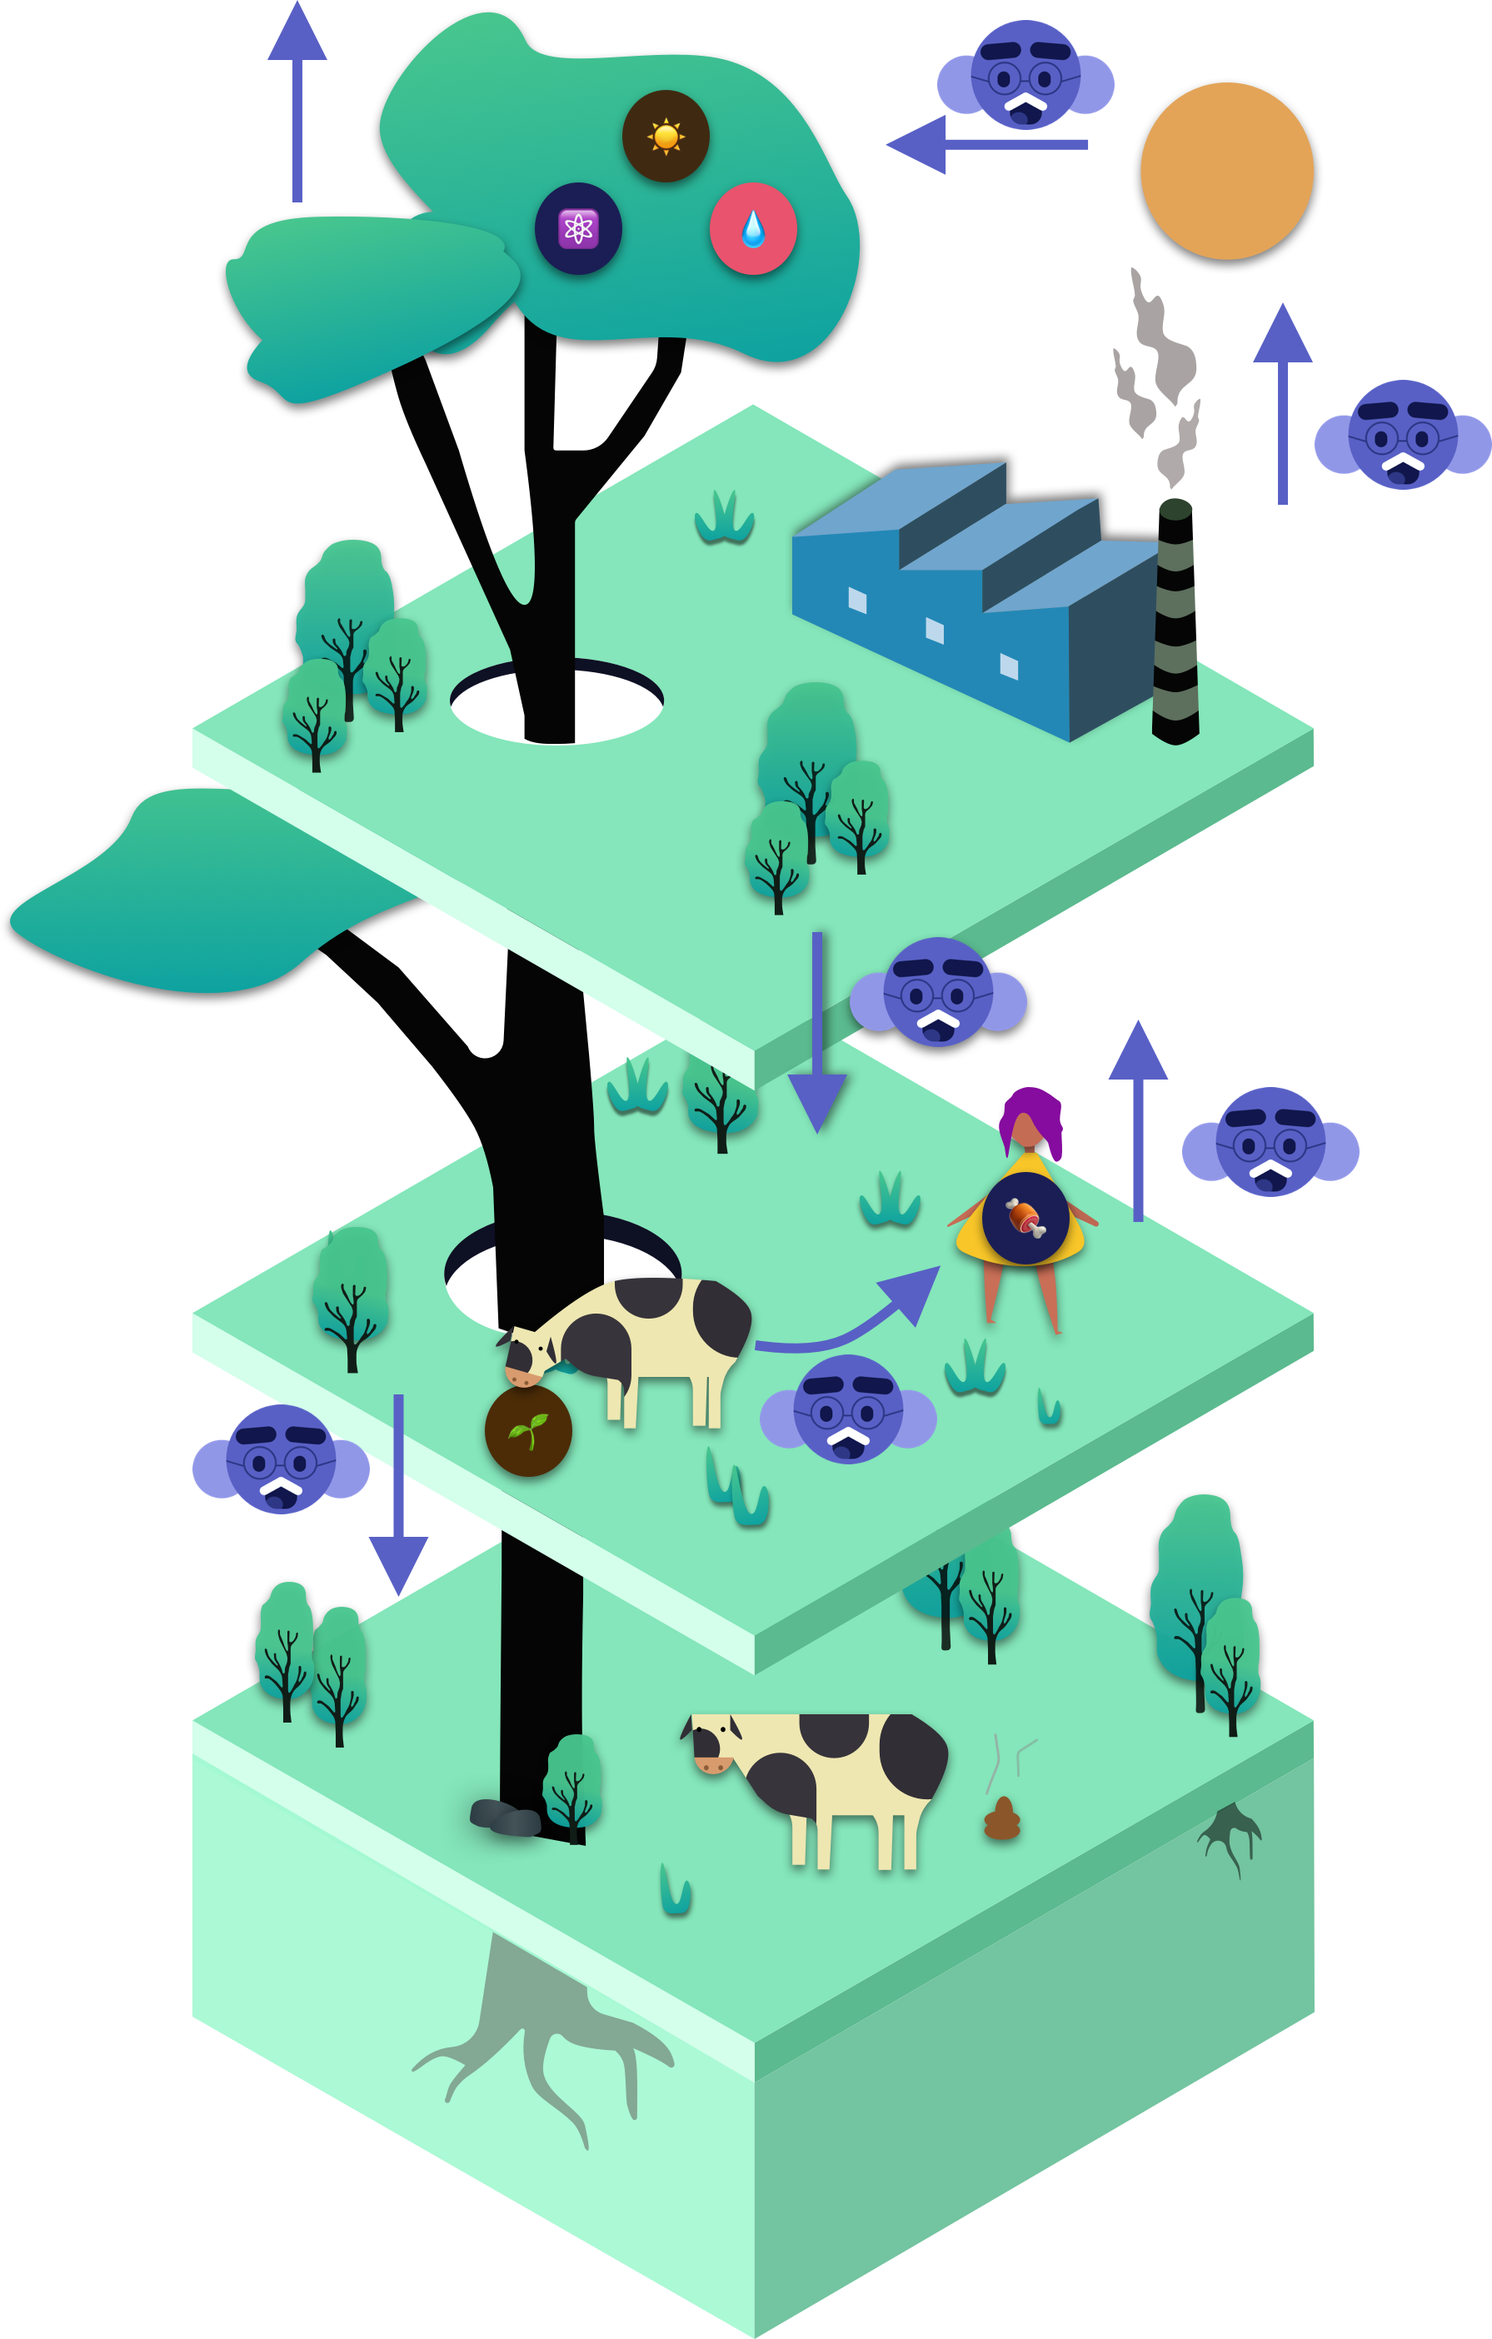
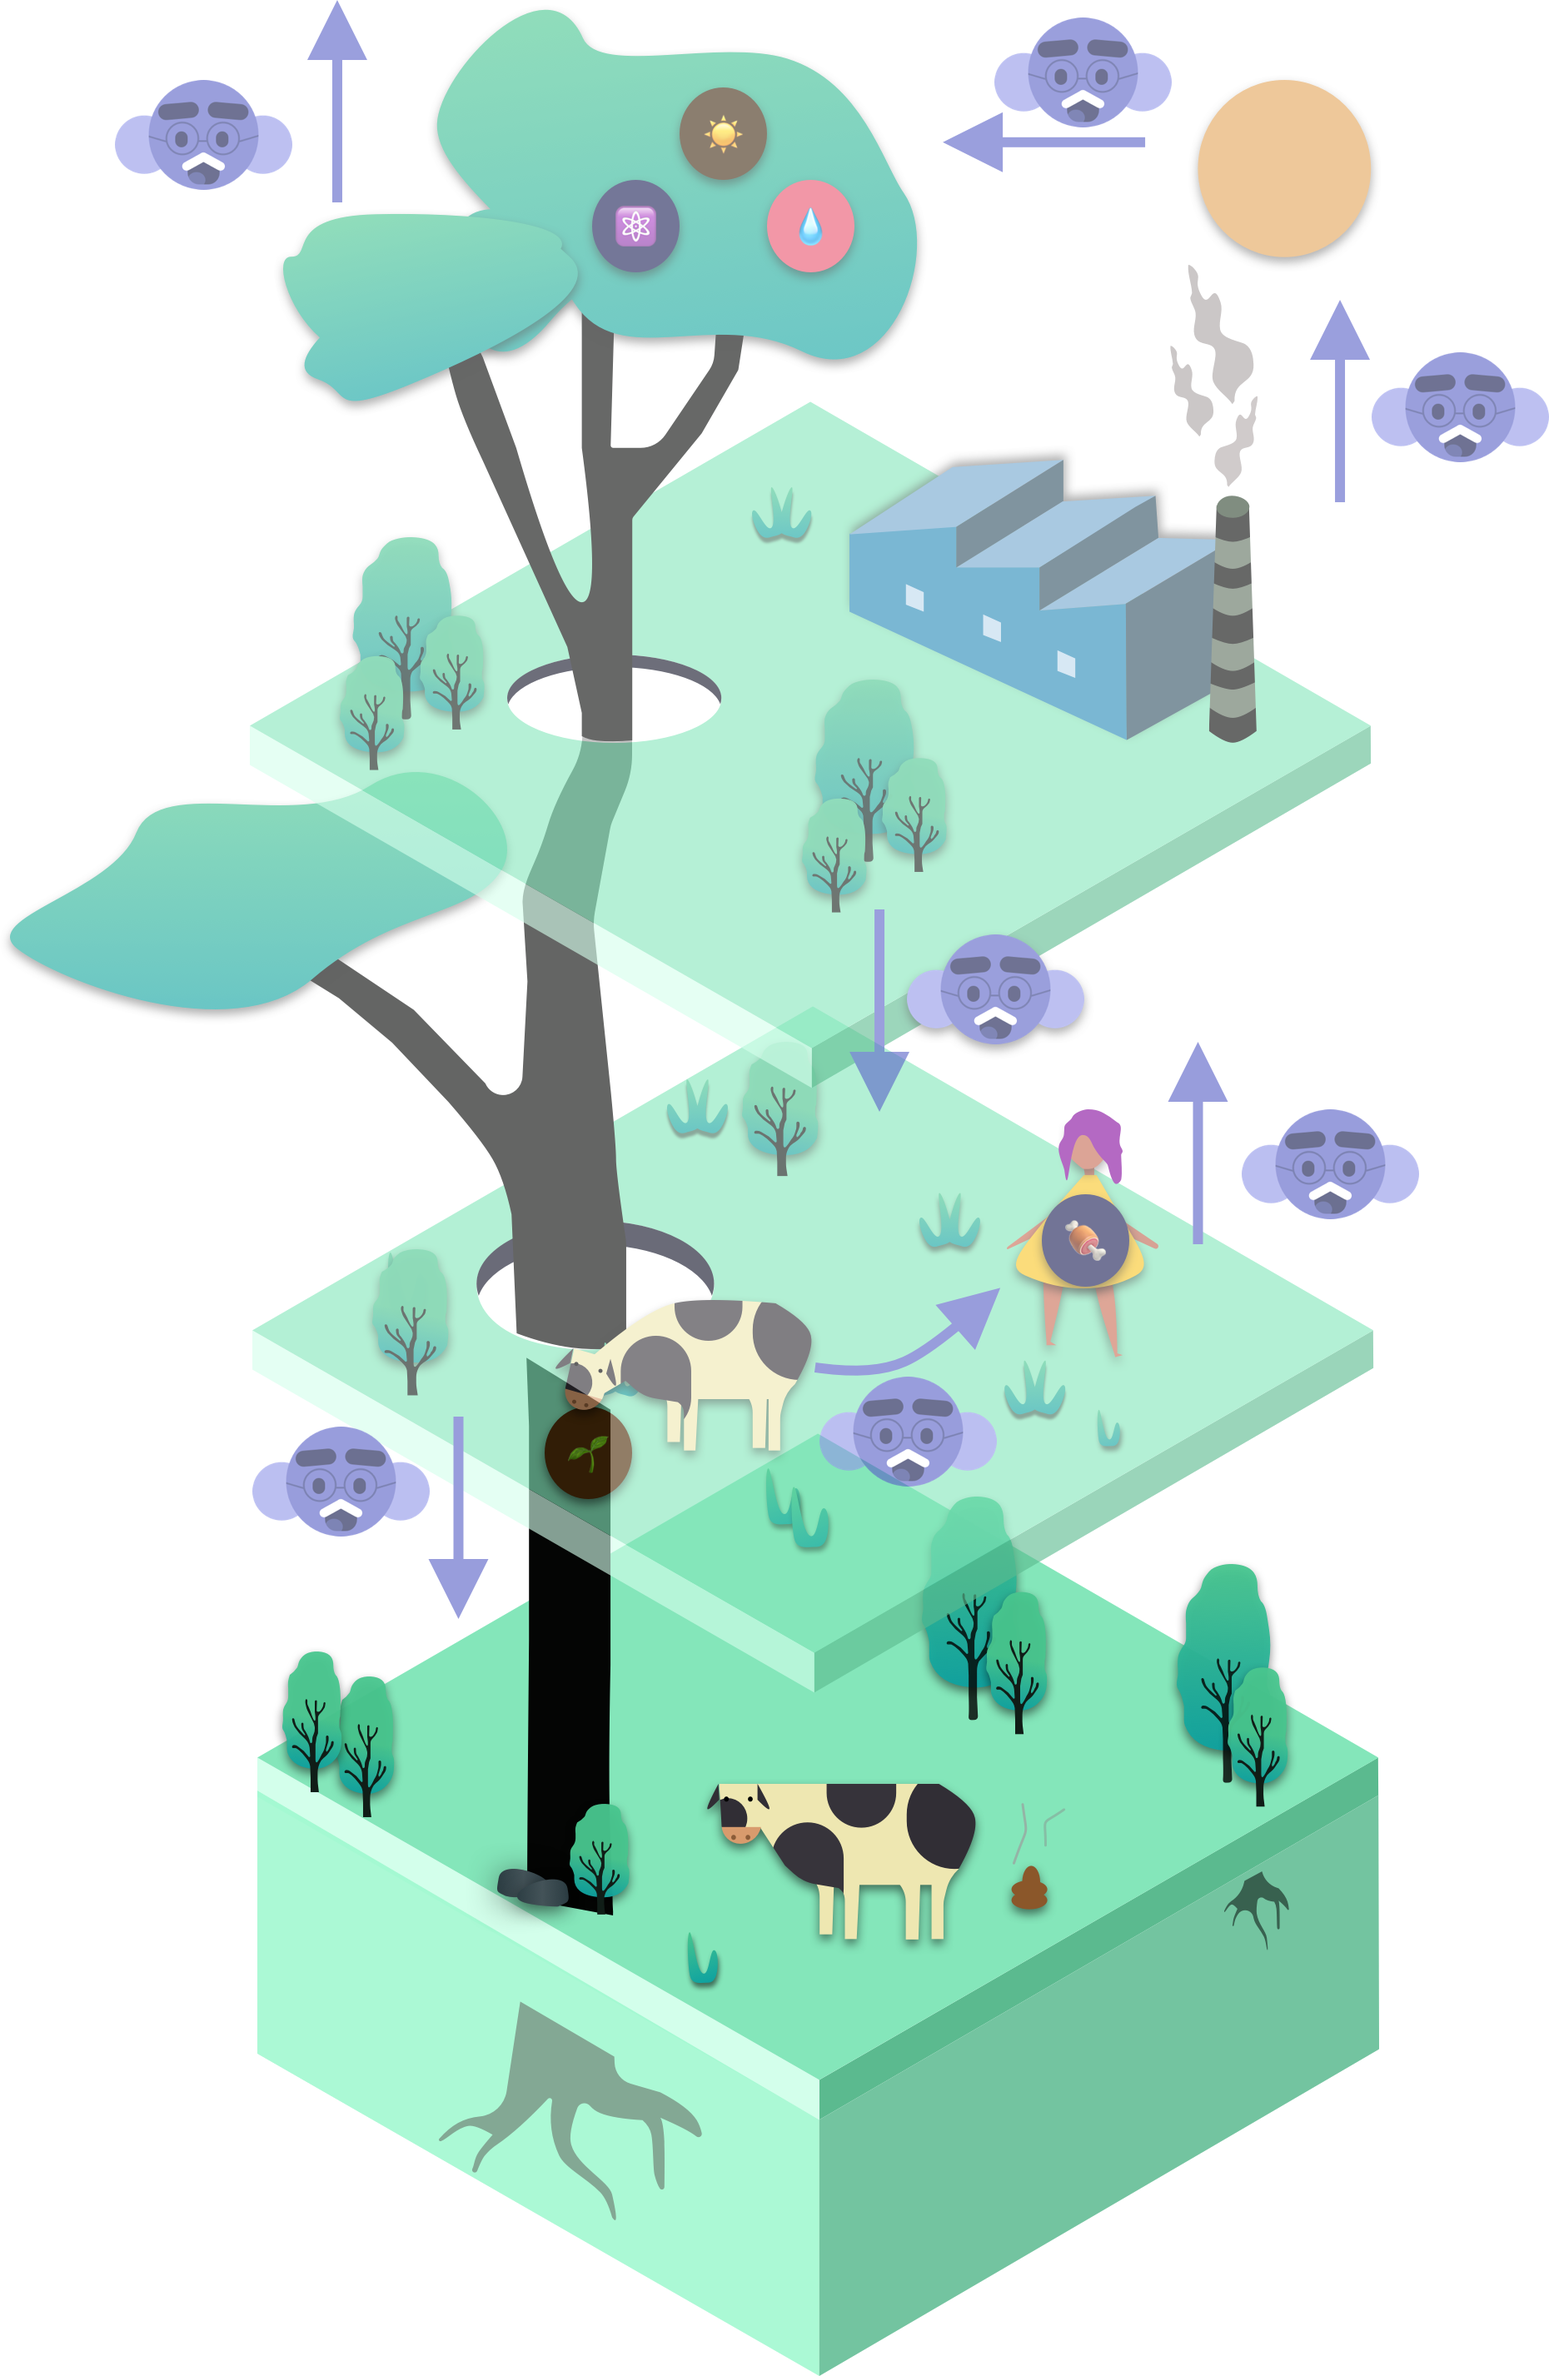
Adiciona Novos Assets

diff --git a/PlaygroundBook/Sources/SpriteKit/Scene_FaseThree/FaseThreeScene.swift b/PlaygroundBook/Sources/SpriteKit/Scene_FaseThree/FaseThreeScene.swift
@@ -14,24 +14,24 @@ public class FaseThreeScene: SKScene {
     var carbonoParaEsquerdaF3: SKSpriteNode!
     var carbonoParaBaixoF3: SKSpriteNode!
     
-     let fade = SKAction.fadeAlpha(to: 1, duration: 2.0)
+     let fade = SKAction.fadeAlpha(to: 1, duration: 1.0)
     
     override public func didMove(to view: SKView) {
         
         let fase3 = self.getNode(withName: "Fase3")
-        fase3!.texture = SKTexture.init(imageNamed: "FaseTres")
+        fase3!.texture = SKTexture.init(imageNamed: "FaseTresPrimeiraFaceNEW1")
         
         carbonoParaEsquerdaF3 = self.childNode(withName: "CarbonoParaEsquerdaF3") as? SKSpriteNode
         carbonoParaEsquerdaF3?.alpha = 0
-        
-       carbonoParaBaixoF3 = self.childNode(withName: "carbonoParaBaixoF3") as? SKSpriteNode
+        carbonoParaBaixoF3 = self.childNode(withName: "CarbonoParaBaixoF3") as? SKSpriteNode
         carbonoParaBaixoF3?.alpha = 0
         
-        if PassCarbonDioxide == .plants{
-            
+        if fourthStepOfCarbon == .goToTheSoil{
             carbonoParaBaixoF3?.run(fade)
+        }
+        
+        if fifhtStepOfCarbon == .goToTheRoot {
             carbonoParaEsquerdaF3?.run(fade)
-            
         }
         
     }

diff --git a/PlaygroundBook/Sources/SpriteKit/Scene_FaseTwo/FaseTwoScene.swift b/PlaygroundBook/Sources/SpriteKit/Scene_FaseTwo/FaseTwoScene.swift
@@ -18,12 +18,12 @@ public class FaseTwoScene: SKScene {
     var cowFood: SKSpriteNode!
     var humanFood: SKSpriteNode!
     
-    let fade = SKAction.fadeAlpha(to: 1, duration: 2.0)
+    let fade = SKAction.fadeAlpha(to: 1, duration: 1.0)
     
     override public func didMove(to view: SKView) {
         
         let fase2 = self.getNode(withName: "Fase2")
-        fase2!.texture = SKTexture.init(imageNamed: "FaseDois")
+        fase2!.texture = SKTexture.init(imageNamed: "FaseDoisNEW1")
         
 //MARK: Scene Elements
         

diff --git a/PlaygroundBook/Sources/LiveViewSupport.swift b/PlaygroundBook/Sources/LiveViewSupport.swift
@@ -34,6 +34,9 @@ public var feedHumanWith: FeedHumanWith = .someFood
 public var feedCowWith: FeedCowWith = .someFood
 public var thirdStepOfCarbon: ThirdStepOfCarbon = .goSomewhere
 
+//MARK: FaseThree_Elements
+public var fourthStepOfCarbon: FourthStepOfCarbon = .goSomewhere
+public var fifhtStepOfCarbon: FifhtStepOfCarbon = .goSomewhere
 
 
 public func instantiateLiveView() -> PlaygroundLiveViewable {

diff --git a/PlaygroundBook/Chapters/Chapter1.playgroundchapter/Pages/FaseThreePage.playgroundpage/Contents.swift b/PlaygroundBook/Chapters/Chapter1.playgroundchapter/Pages/FaseThreePage.playgroundpage/Contents.swift
@@ -19,8 +19,8 @@ import PlaygroundSupport
  */
 
 // Passe o carbono para as plantas
-
-PassCarbonDioxide = /*#-editable-code*/.carbonDioxideTravel/*#-end-editable-code*/
+fourthStepOfCarbon = /*#-editable-code*/.goSomewhere/*#-end-editable-code*/
+fifhtStepOfCarbon = /*#-editable-code*/.goSomewhere/*#-end-editable-code*/
 
 
 //#-hidden-code

diff --git a/PlaygroundBook/Sources/SpriteKit/Scene_FaseOne/GameScene.swift b/PlaygroundBook/Sources/SpriteKit/Scene_FaseOne/GameScene.swift
@@ -26,7 +26,7 @@ public class GameScene: SKScene {
     var foodWater: SKSpriteNode!
     var foodCarbon: SKSpriteNode!
     
-    let fade = SKAction.fadeAlpha(to: 1, duration: 2.0)
+    let fade = SKAction.fadeAlpha(to: 1, duration: 1.0)
     
     
     override public func didMove(to view: SKView) {

diff --git a/PlaygroundBook/Sources/SpriteKit/Scene_FaseOne/Elements.swift b/PlaygroundBook/Sources/SpriteKit/Scene_FaseOne/Elements.swift
@@ -81,4 +81,15 @@ public enum ThirdStepOfCarbon{
 }
 
 
+//MARK: Third Fase Elements
+
+public enum FourthStepOfCarbon{
+    case goToTheSoil
+    case goSomewhere
+}
+public enum FifhtStepOfCarbon{
+    case goToTheRoot
+    case goSomewhere
+}
+
 
